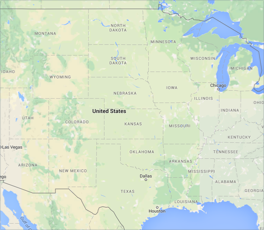
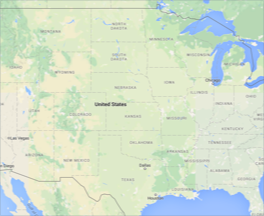
mod: img size

diff --git a/_sass/pages/tutorials.scss b/_sass/pages/tutorials.scss
@@ -16,7 +16,7 @@
   }
   .image {
     width: 264px;
-    height: 230px;
+    height: 216px;
     float: left;
     margin-top: 5px;
     @media #{$max-768} {

diff --git a/products-and-docs/tutorials/widgets/Event_Discovery_Widget.md b/products-and-docs/tutorials/widgets/Event_Discovery_Widget.md
@@ -6,7 +6,7 @@ categories:
 
 title: Adding Event Discovery widget to your website
 
-img: "/assets/img/products-and-docs/event-discovery-widget-image.png"
+img: "/products-and-docs/tutorials/img/event-discovery-widget-image264x216.png"
 
 link: "/products-and-docs/tutorials/widgets/Event_Discovery_Widget.html"
 
